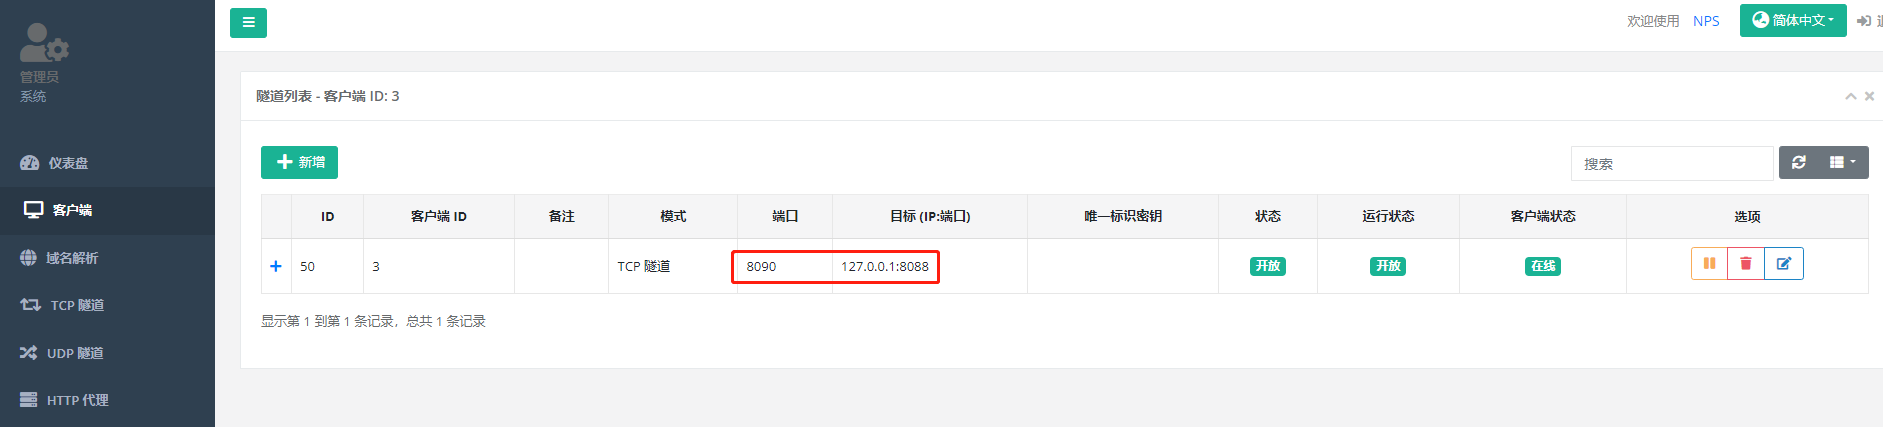
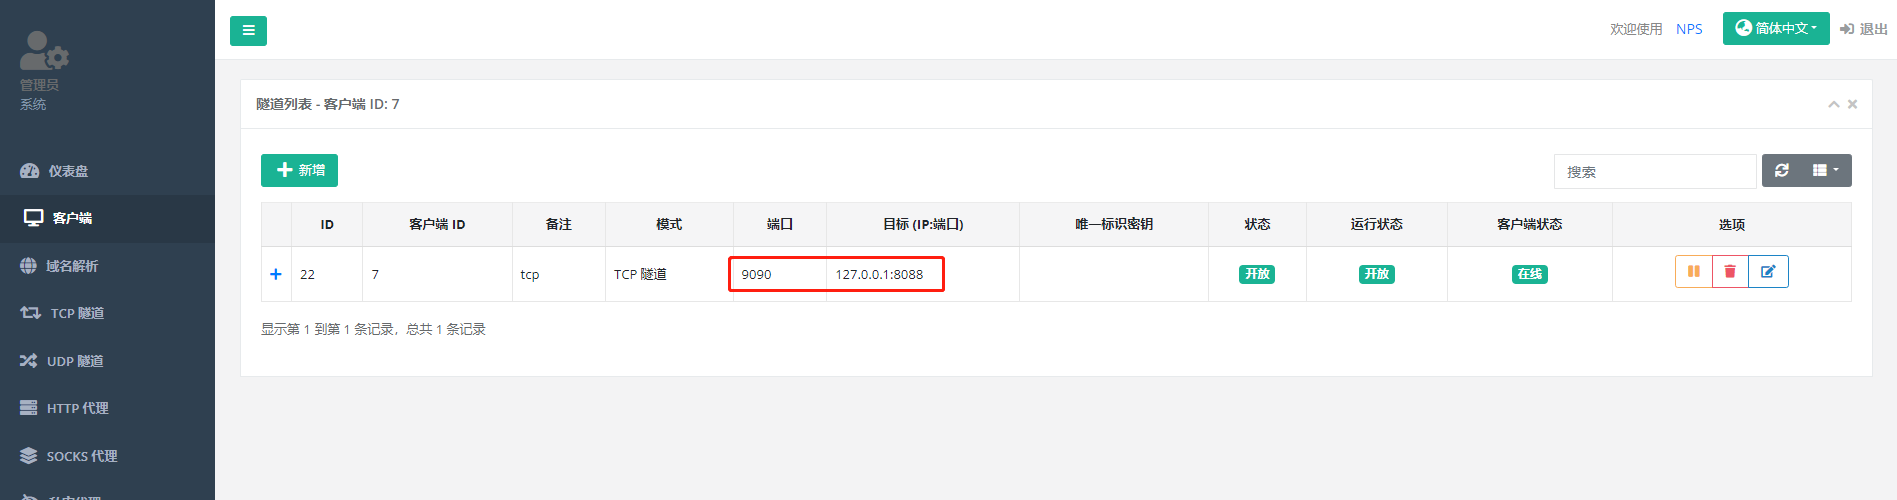
update

diff --git a/docs/deploy/nps.md b/docs/deploy/nps.md
@@ -58,6 +58,11 @@ nps start               # 启动nps服务
 
 ## 2. 客户端
 
+```bash
+# 无配置文件模式启动
+npc.exe -server=vpsip:8024 -vkey=123456 -type=tcp
+```
+
 ### 2.1 域名代理
 
 适用范围： 小程序开发、微信公众号开发、产品演示
@@ -92,8 +97,8 @@ header_set_proxy=nps
 ```conf
 #HTTP(S) proxy port, no startup if empty
 http_proxy_ip=0.0.0.0
-http_proxy_port=80      # 修改
-https_proxy_port=443    # 修改
+http_proxy_port=80      # 20080
+https_proxy_port=443    # 20443
 https_just_proxy=true
 #default https certificate setting
 https_default_cert_file=conf/server.pem
@@ -103,16 +108,42 @@ https_default_key_file=conf/server.key
 
 ### 2.1 tcp隧道模式
 
-#### 2.1.1 通过ssh、mstsc访问内网设备
+#### 2.1.1 ssh访问内网
 
-简介：内网设备有暴露可连接的端口，比如22、3389等端口，外网无法访问。NPS安装在有公网IP的环境
+使用场景: 通过公网服务器39.105.58.136的8090端口，连接内网机器192.168.2.3的22端口，实现SSH连接。
 
-```bash
-# 被控端启动NPC
-npc.exe -server=vpsip:8024 -vkey=123456 -type=tcp
+客户端配置
+```conf
+[common]
+server_addr=39.105.58.136:8024
+conn_type=tcp
+vkey=123456
+[tcp]
+mode=tcp
+target_addr=127.0.0.1:22
+server_port=8090
 ```
 
-`远程桌面配置`
+![](../../assets/_images/deploy/nps/nps11.png)
+
+![](../../assets/_images/deploy/nps/nps10.png)
+
+
+#### 2.1.2 mstsc访问内网
+
+使用场景: 通过公网服务器39.105.58.136的8090端口，连接内网机器192.168.2.3的3389端口
+
+客户端配置
+```conf
+[common]
+server_addr=39.105.58.136:8024
+conn_type=tcp
+vkey=123456
+[tcp]
+mode=tcp
+target_addr=127.0.0.1:3389
+server_port=8090
+```
 
 ![](../../assets/_images/deploy/nps/nps4.png)
 
@@ -122,26 +153,39 @@ npc.exe -server=vpsip:8024 -vkey=123456 -type=tcp
 
 ![](../../assets/_images/deploy/nps/nps7.png)
 
-`SSH配置`
 
-![](../../assets/_images/deploy/nps/nps11.png)
+#### 2.1.3 http正向代理
 
-![](../../assets/_images/deploy/nps/nps10.png)
+客户端配置
+```conf
+[common]
+server_addr=39.105.58.136:8024
+conn_type=tcp
+vkey=123456
+[tcp]
+mode=tcp
+target_addr=127.0.0.1:8088
+server_port=9090
 
-#### 2.1.2 http正向代理
-
-```bash
-# 被控端启动NPC
-npc.exe -server=vpsip:8024 -vkey=123456 -type=tcp
 ```
-
-
 ![](../../assets/_images/deploy/nps/nps8.png)
 
 ![](../../assets/_images/deploy/nps/nps9.png)
 
 
 ### 2.2 udp隧道模式
+
+客户端配配置
+```conf
+[common]
+server_addr=39.105.58.136:8024
+conn_type=tcp
+vkey=123456
+[udp]
+mode=udp
+target_addr=127.0.0.1:8080
+server_port=9002
+```
 
 ### 2.3 http代理模式
 
